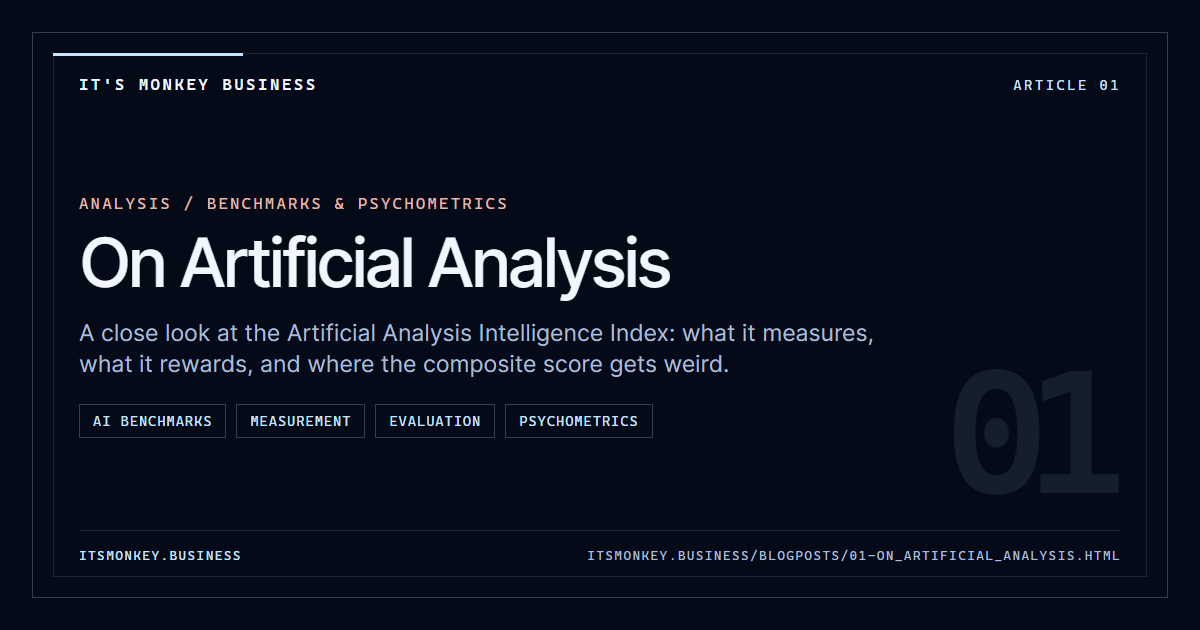
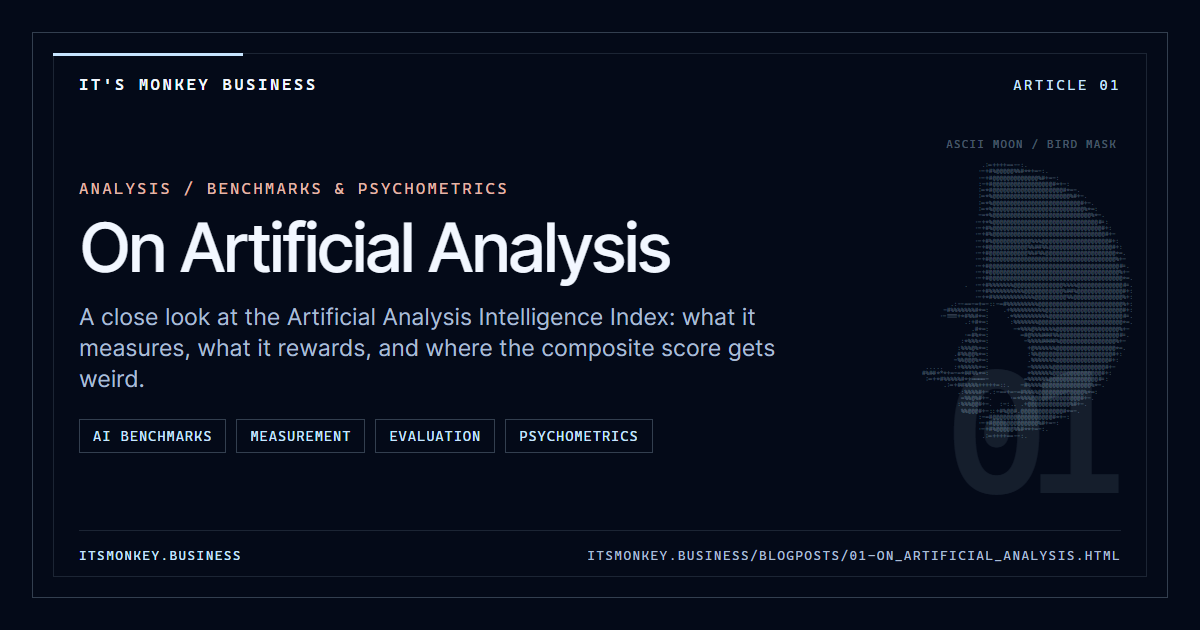
Add ASCII moon bird to preview cards

Changed region(s): [[0.0617, 0.2714, 0.74, 0.7238], [0.7708, 0.2111, 0.9558, 0.6937]]

diff --git a/scripts/embed-card.css b/scripts/embed-card.css
@@ -95,7 +95,7 @@ body {
 }
 
 .embed-main {
-  max-width: 960px;
+  max-width: 760px;
   margin: 24px 0 16px;
 }
 
@@ -119,7 +119,7 @@ body {
 }
 
 .embed-description {
-  max-width: 820px;
+  max-width: 700px;
   margin: 22px 0 0;
   color: var(--embed-muted);
   font-size: 23px;
@@ -154,6 +154,30 @@ body {
   font-weight: 600;
   letter-spacing: -0.12em;
   line-height: 0.8;
+  user-select: none;
+}
+
+.embed-lunar-label {
+  position: absolute;
+  top: 106px;
+  right: 50px;
+  z-index: 0;
+  color: rgba(199, 229, 255, 0.36);
+  font: 11px/1 var(--embed-mono);
+  letter-spacing: 0.12em;
+  text-transform: uppercase;
+}
+
+.embed-lunar-mark {
+  position: absolute;
+  top: 129px;
+  right: 34px;
+  z-index: 0;
+  margin: 0;
+  color: rgba(199, 229, 255, 0.28);
+  font: 6px/1.05 var(--embed-mono);
+  letter-spacing: 0;
+  white-space: pre;
   user-select: none;
 }
 

diff --git a/scripts/generate_embed_images.py b/scripts/generate_embed_images.py
@@ -22,6 +22,7 @@ from pathlib import Path
 ROOT = Path(__file__).resolve().parents[1]
 SITE_ORIGIN = "https://itsmonkey.business"
 CARD_CSS = (ROOT / "scripts" / "embed-card.css").read_text(encoding="utf-8")
+LUNAR_MARK = (ROOT / "scripts" / "embed-lunar-mark.txt").read_text(encoding="utf-8").strip("\n")
 WIDTH = 1200
 HEIGHT = 630
 
@@ -204,6 +205,8 @@ def card_markup(preview: Preview) -> str:
 <body>
 <div class="embed-card">
   <div class="embed-number">{escape(preview.marker)}</div>
+  <span class="embed-lunar-label">ASCII MOON / BIRD MASK</span>
+  <pre class="embed-lunar-mark">{escape(LUNAR_MARK)}</pre>
   <header class="embed-header">
     <span class="embed-brand">It's Monkey Business</span>
     <span class="embed-status">{escape(status)}</span>

diff --git a/blogposts/README.md b/blogposts/README.md
@@ -34,6 +34,7 @@ If a page has multiple SVGs, give each gradient and filter a unique ID and updat
 
 The public pages include Open Graph and Twitter Card metadata. The generator discovers the root
 index, the blog archive, and numbered posts, then renders 1200x630 PNGs into `../assets/embeds/`.
+The cards include the shared ASCII moon/bird mark from `scripts/embed-lunar-mark.txt`.
 
 Run it with a Python runtime that has Playwright installed:
 
